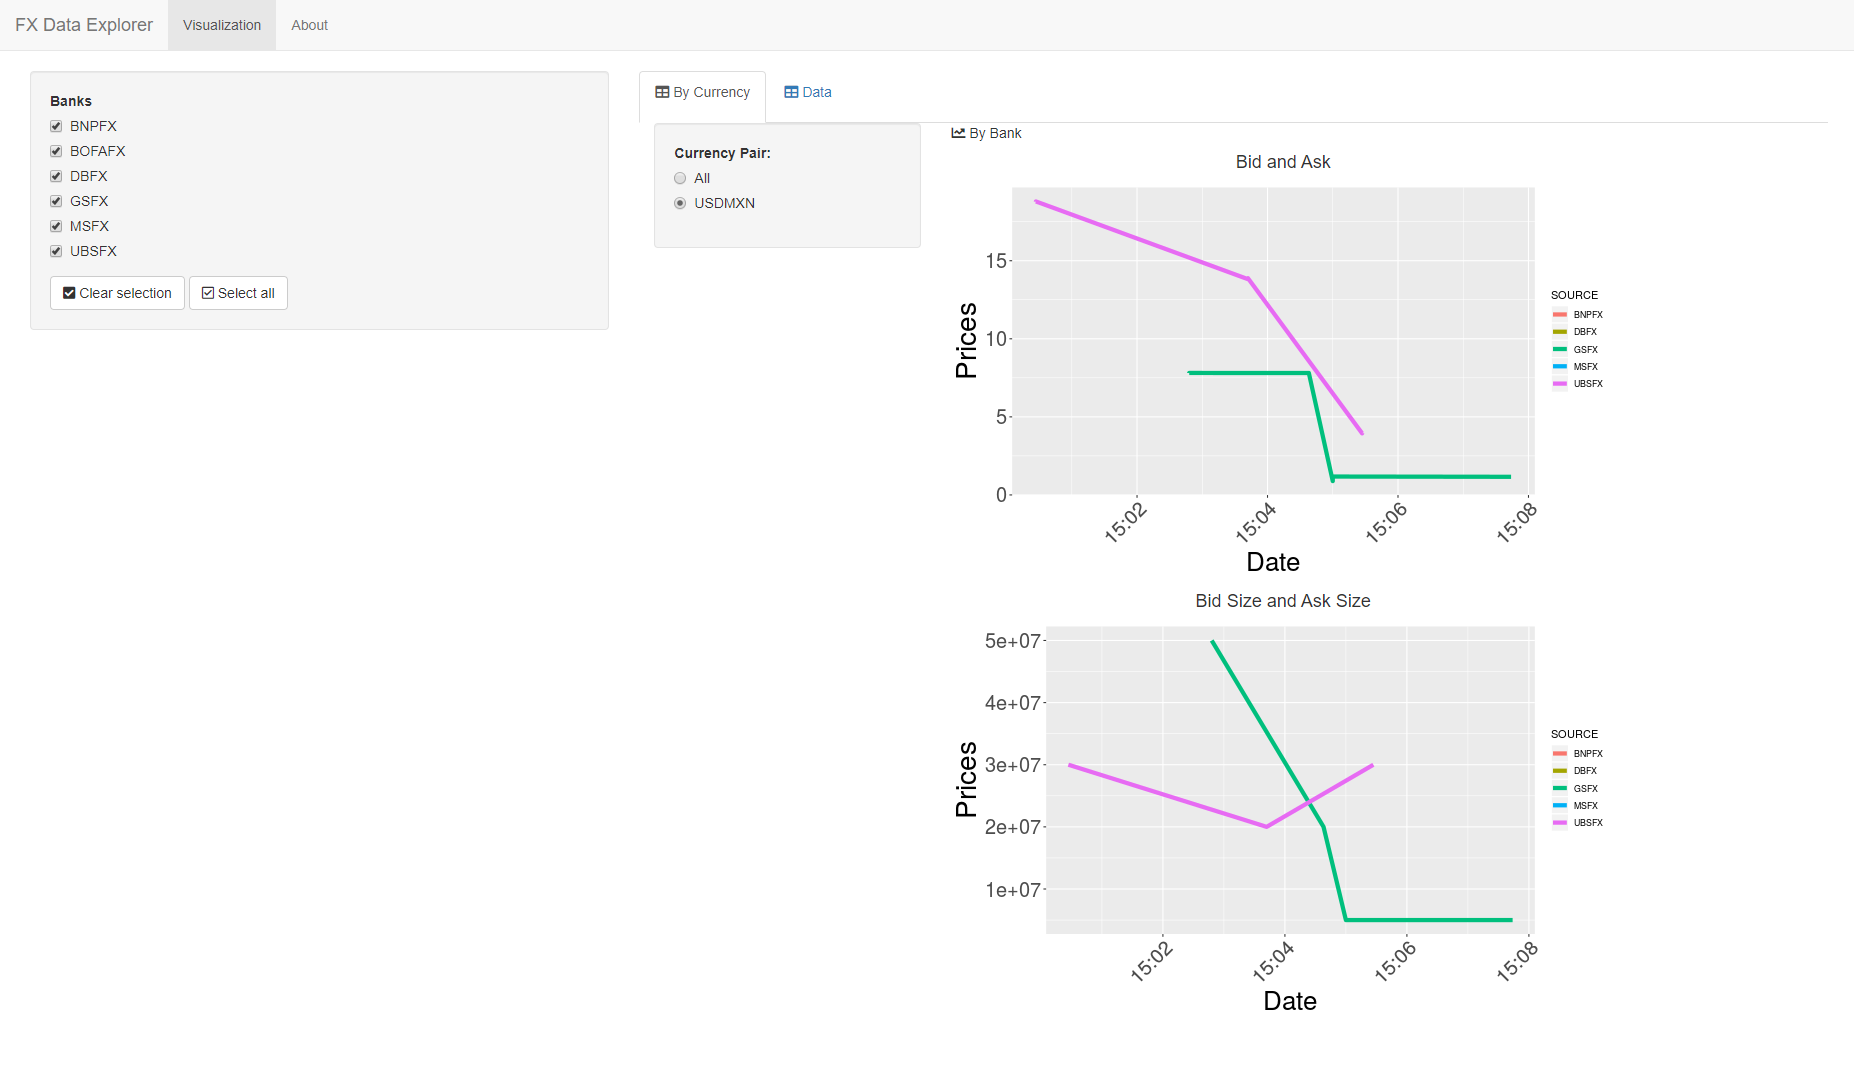
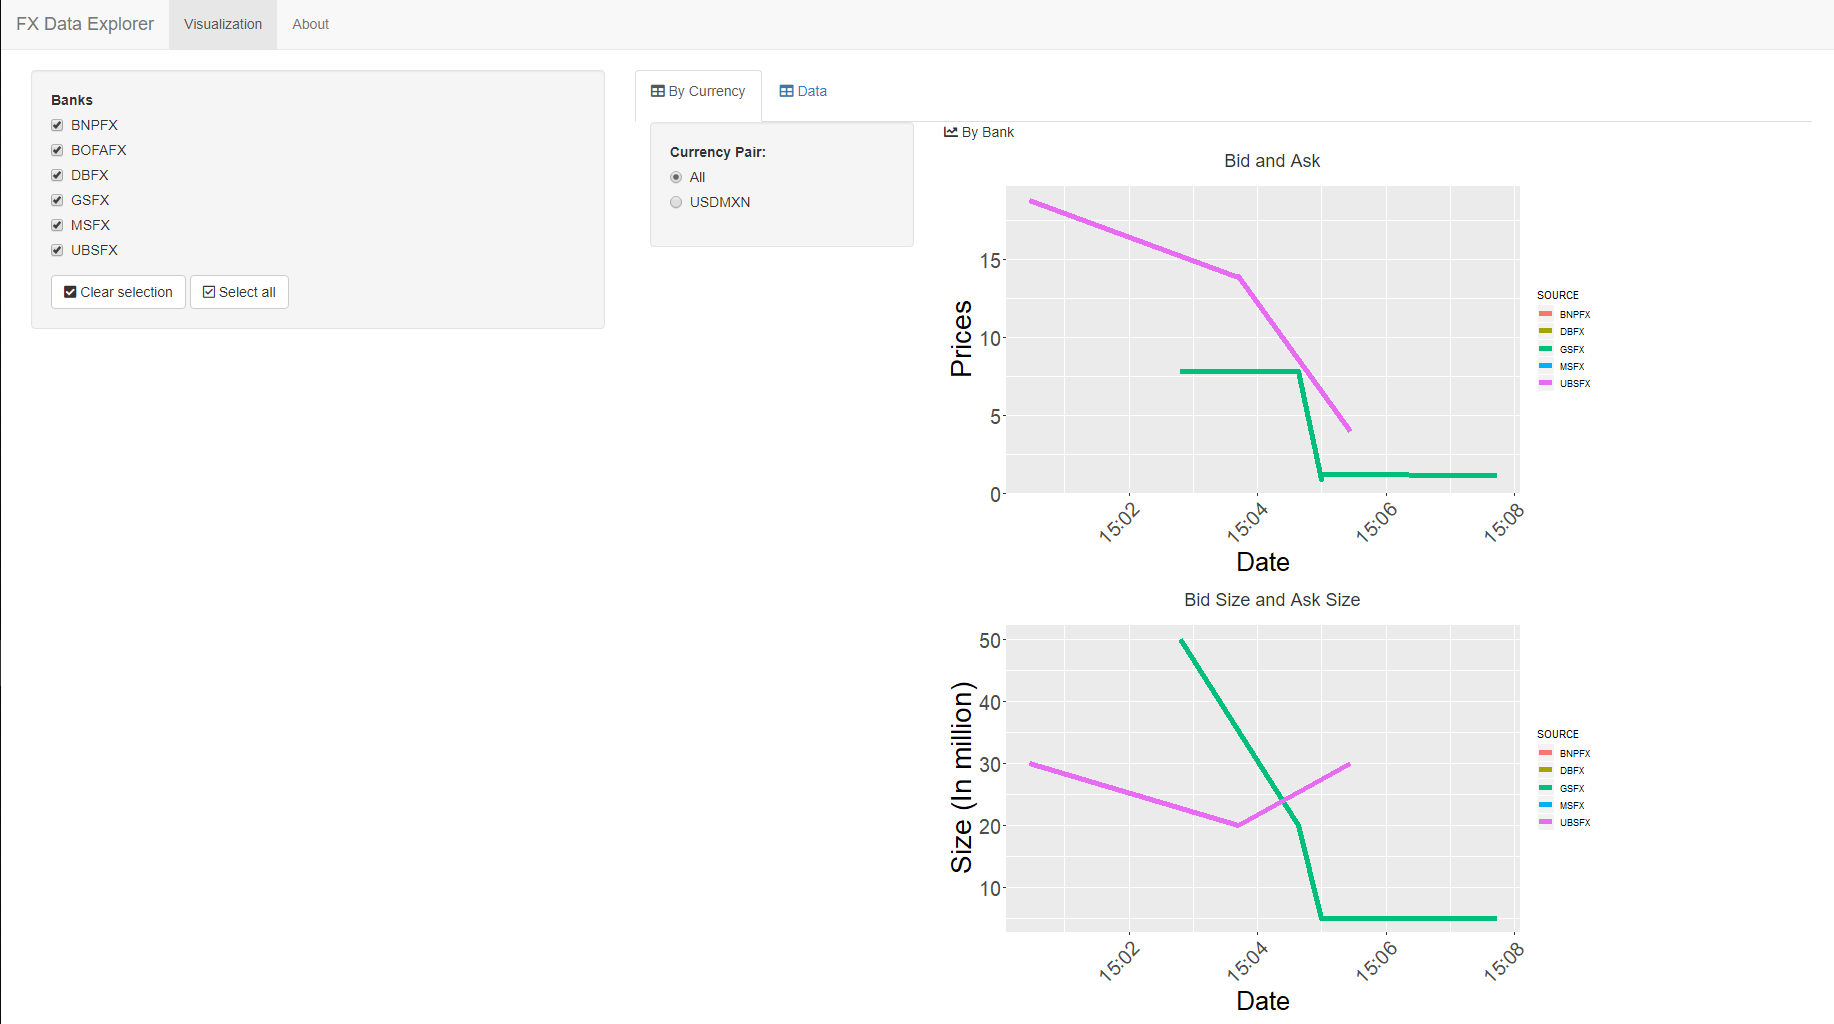
added plot for spread, updated images.

diff --git a/readme.md b/readme.md
@@ -17,7 +17,9 @@ The demo of the app can be found [here](https://pirimiddemo.shinyapps.io/fx_spre
 
 2. Sample Graphs
 
-    ![Graphs Sample](/resources/plots_by_banks.PNG)
+    ![Graphs Sample](/resources/sample_graphs.PNG)
+
+    ![Spread](/resources/spread.PNG)
 
 3. Filters
 
